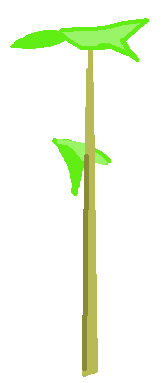
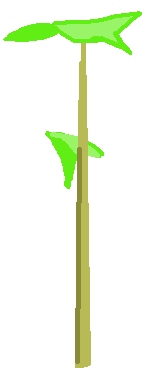
updated README.md and added leaf texture

Changed region(s): [[0.0282, 0.0299, 1.0, 1.0]]

diff --git a/js/app.js b/js/app.js
@@ -186,7 +186,11 @@ function renderTerrain() {
                             }
                             // draw tall leaf if there are six in a row
                             if (k == 5) {
-                                blockImg.src = "img/leaf2.png"
+                                if (i%2 == 0) {
+                                    blockImg.src = "img/leaf2.png"
+                                } else {
+                                    blockImg.src = "img/leaf1.png"
+                                }
                                 ctx.drawImage(blockImg, i*20-10, j*20-10, 40, 140);
                                 j += 5;
                             }

diff --git a/README.md b/README.md
@@ -1,25 +1,76 @@
-# Project: Minecraft Mini
+# Project1: Pixel Hopper (FrogCraft)
 ### by dean
 
-## 1. Basic Game Idea
-I want to build a pared down version of minecraft (name subject to change). It will be two dimensional and have limited function, but essentially be a platformer with scenery manipulation.
-
-## 2. Tech
-I will use basic HTML, CSS, and JS to create a viewer window where the game takes place. The scenery will be drawn using a css canvas. I will use javascript functionality to track the player's movement, the location of the terrain, and the player's manipulation of the terrain. 
-
-## 3. MVP
-Upon loading the page, a randomly spawned terrain will load. There will be dirt blocks on top of stone blocks.  The user will be able to manipulate a player character using WASD or an interface next to the screen (to make accessible for mobile). The user will be able to pick up blocks by clicking on them when the player character is next to them. Then, the block appears in the character's inventory, and they can place the block somewhere else. The stone blocks cannot be picked up.  There will be an objectives menu to tell the players what to do.
-
-## 4. Stretch Goals
-
-- Make the design prettier. Add custom assets and sprites.
-- Add a tutorial sequence.
-- Add sound effects and sound.
-- Add a crafting interface. The player can use wood to make tools to mine stone.
-- The gameworld will be expanded beyond the width of the screen. A minimap will be added so the user can know where they are. 
-
+## Game Link
 
 ## Wireframe
 
 ![](wireframe.jpg)
+*Initial wireframe*
+
+## 1. Project Planning
+I want to build a pared down version of minecraft that would be two dimensional and have limited function, but essentially be a platformer with scenery manipulation. I wanted use basic HTML, CSS, and JS to create a viewer window where the game takes place, draw the scenery in CSS canvas, and then track game states and player movement using javascript funcionality. To make it unique, I came up with the concept of the player character being a frog, then the function of picking and placing blocks could be made visible to the user as the frog tongue. Once the terrain was spawning, and the frog could pick up blocks, I had to implement a inventory system and GUI for the user to place blocks. I added a win state so that the game has a general goal other than being a creative tool.
+
+## 2. MVP
+MVP was for the game to:
+
+- Spawn random scenery upon loading
+- Have a 2d physics engine for the player traverse the terrain
+- Allow the player to pick up and place scenery
+- Include a win state where the player finds treasure
+- Implement a GUI for movement to make the game mobile friendly
+- Have an objectives menu/message bar to provide user feedback
+
+## 3. Gameplay / Obstacles
+The gameplay developed over the course of the four days I spent working on the project.
+
+### Day 1: Terrain
+I started with building the terrain. It needed to spawn with some amount of randomness each time. As the terrain spawns, a string (e.g. "stone") is stored in a two dimensional array that accounts for every block space on the game board. There is also a gameloop function that is set via interval which renders the terrain each loop by iterating through the 2d array and drawing the type of block stored at each index. The game builds from the ground up: first the treasure chest is placed in a random location. Next, stone is drawn on the layer around it and above it. 3 hills are randomly spawned with random widths on top of that. 2 layers of mud are spawned on top of each stone block. One issue was getting the "corners" of the hills to spawn in mud, but after some tricky array manipulation, I was able to create the conditions for them to spawn. Next, leaves that were 6 blocks tall were spawned in 3 random places on top of the mud. 
+
+### Day 2: Physics
+The next day, I focused on spawning the player character and implementing a physics engine. I started with using a constructor function that works for both the fly and the frog. They both spawn at a random x location on the game board. The physics was tricky; I had never used gravity or collision in HTML canvas before, so I used a tutorial (link below). It took some foresight to figure out how to take the tutorial's code and transfer it to my game, since they had a few things about their gamespace that worked differently. My canvas has a gameLoop() function that works via interval, and they used another method. I also wanted my frog to hop as it moves left and right, so I had to add a component that changes the frog's y and y velocity when the left or right keys are pressed. Collision was tricky to implement, but when I finally had my sections of code arranged in roughly the same way as the tutorial, it was able to work. A 1d array stores a list of blocks with which the frog could possibly collide. I had to adjust the gravity and friction values so that the frog moved at the speed I wanted. 
+
+### Day 3: Tongue
+The tongue feature was tricky to implement. I wrote an event listener so that when the user clicks the canvas, a line is drawn between the frog and either the first block along the line OR the cursor if no blocks are hit. I added a direction for the frog so that the tongue appears in the frog's mouth and not behind it (e.g. when the frog is facing left, the tongue starts at the left side and vice versa). When the tongue hits a block, that block disappears both from the gamespace and the list of collision objects (this is accomplished by updating the 2d array, setting the list to zero, and then repopulating it based on the 2d array). What was difficult was writing the algorhythm to determine the first block hit by the tongue. What I developed was an iterator that checks every x pixel along the line, checks the y value at that pixel according to the slope and direction (positive/negative x and y) of the line, and looks at the cooresponding spot in the 2d array to see if it contains a block. 
+
+### Day 4: Inventory and Graphics
+Now that the player could pick up blocks, I needed a place to store them. I built an inventory object which stores blocks by placing a key value pair of the block type and the amount (e.g. {stone: 1, leaf: 4}). I had to create a GUI to display the inventory to the user by manipulating the DOM and adding a div in the menu bar above the canvas. I then worked on a feature to select menu items when clicking them, which changes the appearance of the div by adding a border around it. Then, I added a placeBlock() function to take selected items, subtract it from inventory, and add it where the user clicks. Then the 2d array is updated, along with the list of collision objects. If an item in the inventory runs out, it is removed from the GUI. One problem was figuring out how to deselect an item in the inventory GUI so that the player could pick up blocks again without emptying their inventory. This was achieved by adding another event listener when the player clicks on an item that is already selected, and removing the event listener that places blocks when the user clicks. 
+
+Before I started the project, I spent the weekend drawing some sprites and terrain pictures in paint/Gimp. So far, the game had only used the background grass image, and a few images around the title as simple static aesthetic features. I looked into drawing images on Canvas, which was somewhat more complicated than drawing squares. I changed render functions in the the constructor function for the fly an frog to draw their images instead of squares, and added an extra "if" statement to make sure the image changed depending on which way the frog was facing. The renderTerrain() function was changed to draw images from a background sprite. Similar to minecraft, the textures for each block are all stored in one .png image, and are accessed by coordinates on the image, much like a sprite. Finally, I added an instruction section below the game to give the player some guidance.
+
+![](img/bgtextures.png)
+*Sprite used for background textures*
+
+
+## 4. Features
+
+- The player can move (using the WASD keys) a 2d frog character that collides with scenery in a physics engine.
+- The player can pick up blocks using the frog's tongue. The tongue picks up the nearest block to the frog along the line of the cursor.
+- Once the player has an item in their inventory, it appears at the top of the screen. They can click on it to select it.
+- The player can place the blocks using their tongue. Once blocks are place, they reintegrate into the game world and collision physics.
+- The player can click on an item again to deselect it.
+- A fly flies across the top of the screen. The player can click on it to eat it. 
+- Once the player finds the treasure block, a message appears saying they have won the game. The message also tells them they can keep playing or restart, and if they restart, a new randomized gameworld will load without refreshing the page.
+- The game is mobile friendly. The buttons at the bottom of the canvas allow the user to move as though they were pressing the WASD keys.
+- All assets are custom (draw by me in MS Paint and Gimp ;) )
+
+
+## 5. Stretch Goals
+
+Some features I would like to include in the future: 
+
+- Add a tutorial sequence.
+- Add sound effects and sound.
+- Add a crafting interface. Initially, the player cannot break stone, but they can use leaves to make tools to mine stone.
+- Expand the game beyond the width of the screen. A minimap will be added so the user can know where they are. 
+- Allow the player to save a gameworld and come back to it in the future
+
+## 6. Technologies Used
+HTML Canvas, CSS, HTML, Javascript, Gimp.
+
+## 7. External Sources
+
+Physics Engine: 
+
+http://www.somethinghitme.com/2013/01/09/creating-a-canvas-platformer-tutorial-part-one/
 
